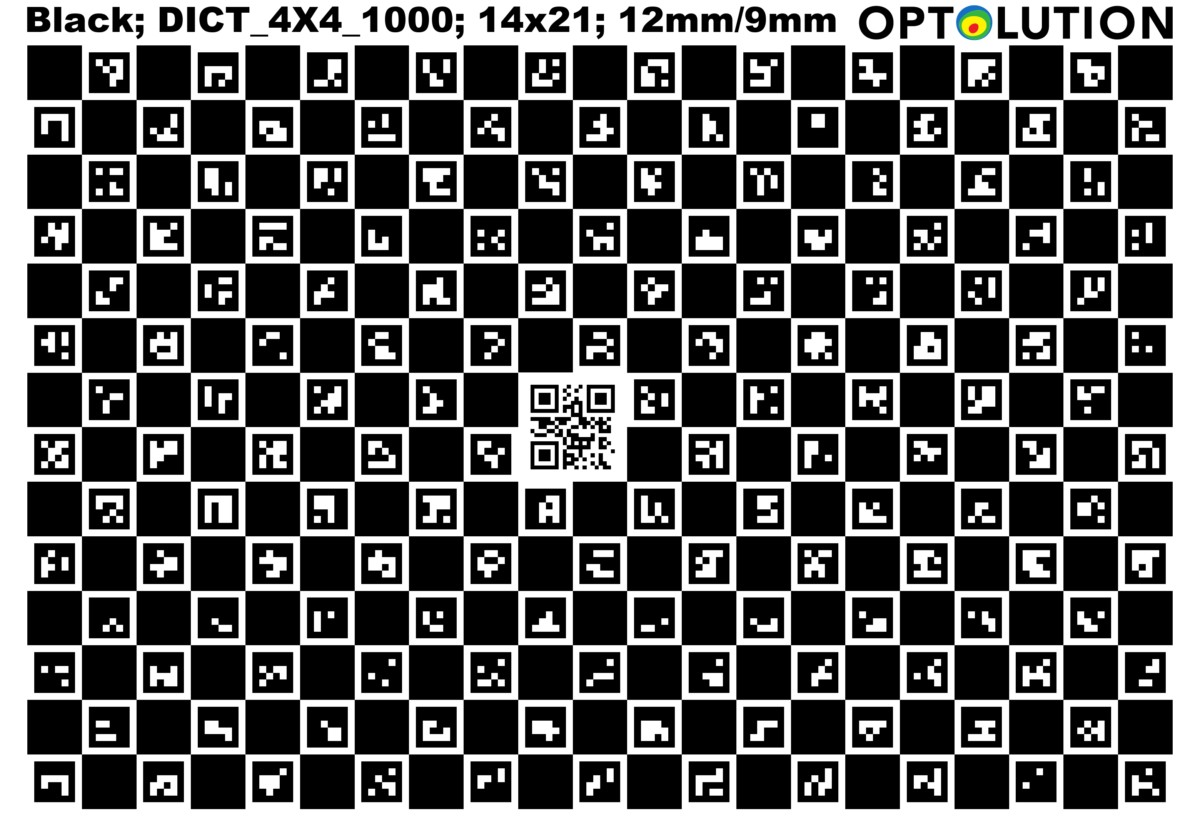
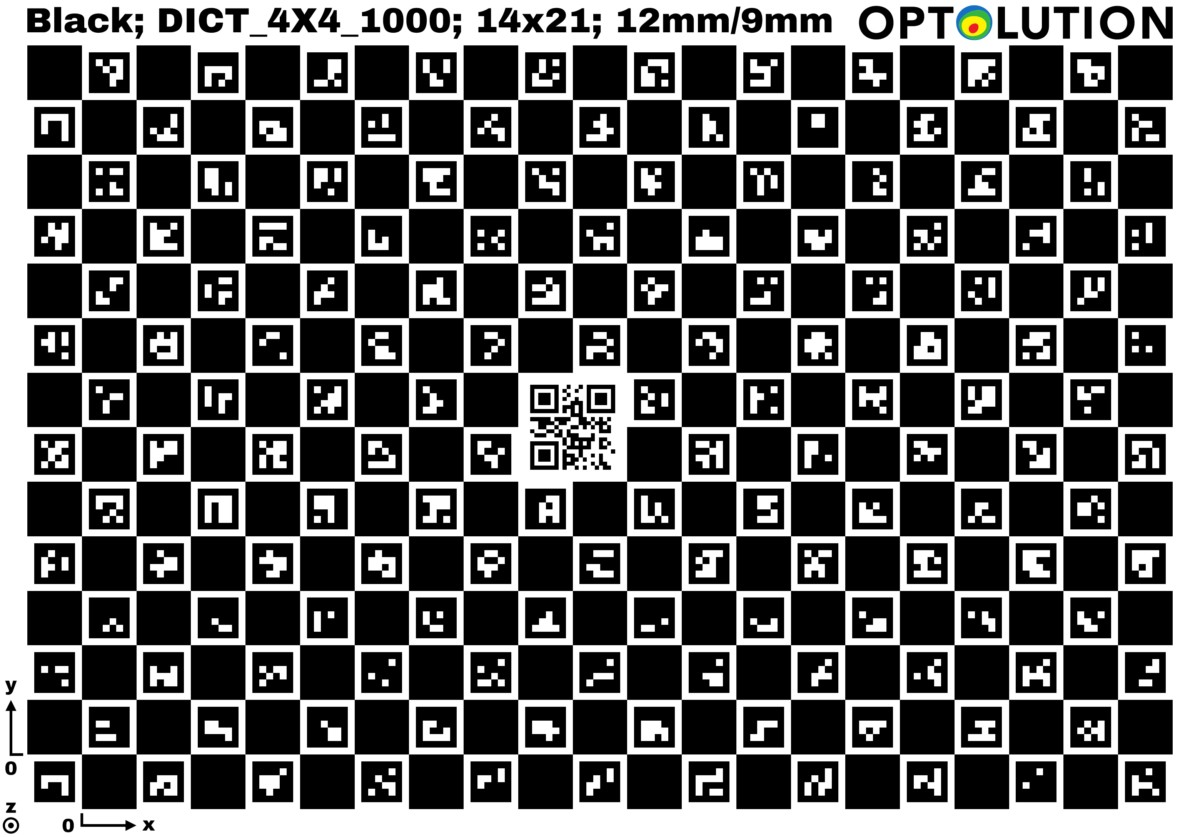
Manual: axes of the results on the marker board and in the particle image generator
From stereo (0abeb5f, manual part only): the board shows the axes of the results
(origin bottom left, x right, y up, z out of the board); camera positions of the
particle image generator are given in these axes.

diff --git a/docs/manual/pages/camera-calibration.html b/docs/manual/pages/camera-calibration.html
@@ -60,19 +60,21 @@
     With the <a href="capture.html#calibration-overlay"><span class="ui">Calibration</span> overlay</a> of the
     image acquisition, PIVlab reads that code from the live image and fills the fields above by
     itself, so the board's dimensions and scale do not have to be entered by hand.</p>
-    <p>The left and bottom margins show the <strong>board coordinate system</strong>, as PIVlab
-    uses it for the calibration and for <a href="stereo-piv.html">stereo PIV</a>: the origin
-    (<em>0</em>) is the first inner checker corner at the top left, <em>x</em> points to the
-    right, <em>y</em> down and <em>z</em> into the board (⊗). The two ticks mark the row and
-    the column line through the origin. Seen from behind, the board and its axes appear
-    mirrored.</p>
+    <p>The left and bottom margins show the <strong>axes of the results</strong> (default axes of the
+    <a href="spatial-calibration.html#offsets">calibration</a>, also for
+    <a href="stereo-piv.html#coordinates">stereo PIV</a>), as seen from camera 1 with the board
+    upright in the image: <em>x</em> points to the right, <em>y</em> up and <em>z</em> out of the
+    board, toward the camera (⊙). The two ticks and the <em>0</em> mark the row and the column line
+    through the inner checker corner at the bottom left. The board only sets the directions: the
+    origin of the results is the bottom left of the image. Seen from behind, the board and its axes
+    appear mirrored.</p>
 
     <figure class="inline-panel">
       <img src="../assets/img/camera-calibration/panel-markerboard.png" alt="PIVlab Marker board setup panel">
       <figcaption>The <strong>Marker board setup</strong> panel.</figcaption>
     </figure>
     <figure>
-      <img src="../assets/img/camera-calibration/charuco-board.jpg" alt="A generated printable ChArUco board: a checkerboard with ArUco markers in the white squares, a QR code in the centre, labelled with its dictionary and dimensions">
+      <img src="../assets/img/camera-calibration/charuco-board.jpg" alt="A generated printable ChArUco board: a checkerboard with ArUco markers in the white squares, a QR code in the centre, labelled with its dictionary and dimensions, and the axes x (right), y (up) and z (out of the board) in the bottom left margin">
       <figcaption>A board produced by <span class="ui">Generate Charuco board</span> with the
       default settings — print it out and photograph it to calibrate. The header and the QR code in
       the centre record its exact parameters (dictionary, rows × columns, checker/marker sizes) so

diff --git a/docs/manual/pages/synthetic-images.html b/docs/manual/pages/synthetic-images.html
@@ -54,6 +54,12 @@
     <p>The settings are on two pages (<span class="ui">Settings</span>): camera and light sheet, and
     flow, particles and output. The ChArUco board is the one of
     <span class="ui">Camera calibration → Setup / define / generate marker board</span>.</p>
+    <p>Camera positions and aim points are in mm, in the
+    <a href="camera-calibration.html#markerboard">axes printed on the board</a> (the axes of the
+    results): origin at the inner checker corner at the bottom left, <em>x</em> right, <em>y</em> up,
+    <em>z</em> out of the board. Cameras in front of the board have <em>z</em> &gt; 0. The rotation of
+    the light sheet and the out-of-plane displacement use the same axes: a positive out-of-plane
+    displacement points out of the board, toward the cameras in front of it.</p>
 
     <h2 id="flowtype">Flow</h2>
     <p>The flow is centred in the view (with two cameras: in the overlap of both views). The

diff --git a/docs/manual/assets/js/search-index.js b/docs/manual/assets/js/search-index.js
@@ -258,7 +258,7 @@ window.MANUAL_SEARCH = [
     title: "Setting up a ChArUco marker board",
     href: "pages/camera-calibration.html", hash: "markerboard",
     section: "Image settings",
-    text: "charuco marker board rows columns checker size origin color guess parameters generate board"
+    text: "charuco marker board rows columns checker size origin color guess parameters generate board axes x y z coordinate system"
   },
   {
     title: "Choosing the checker size",
